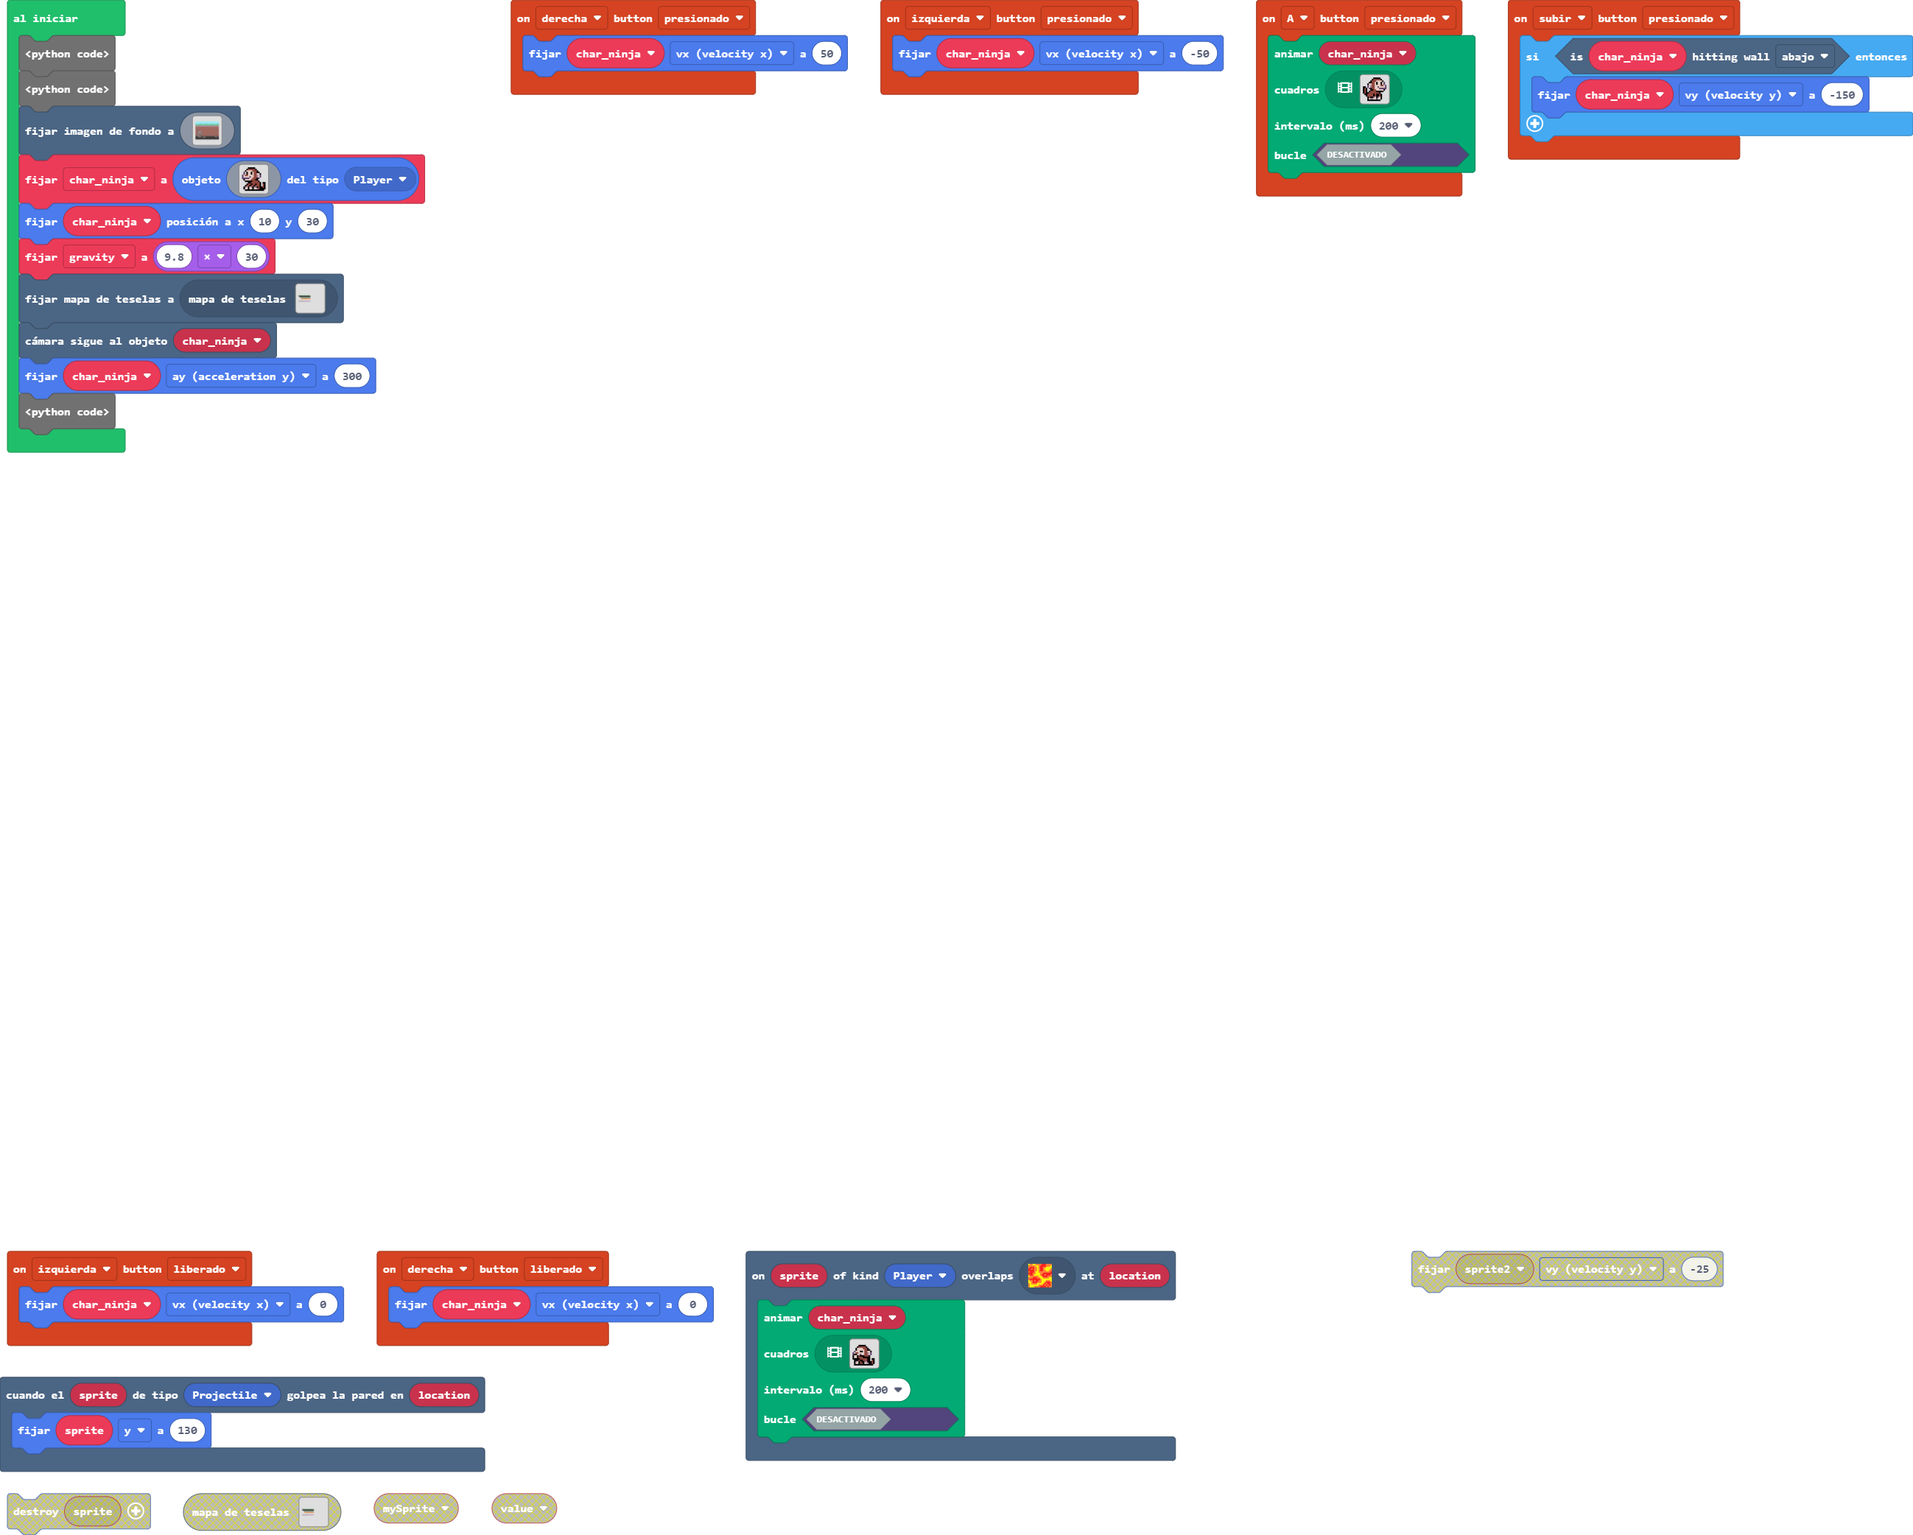
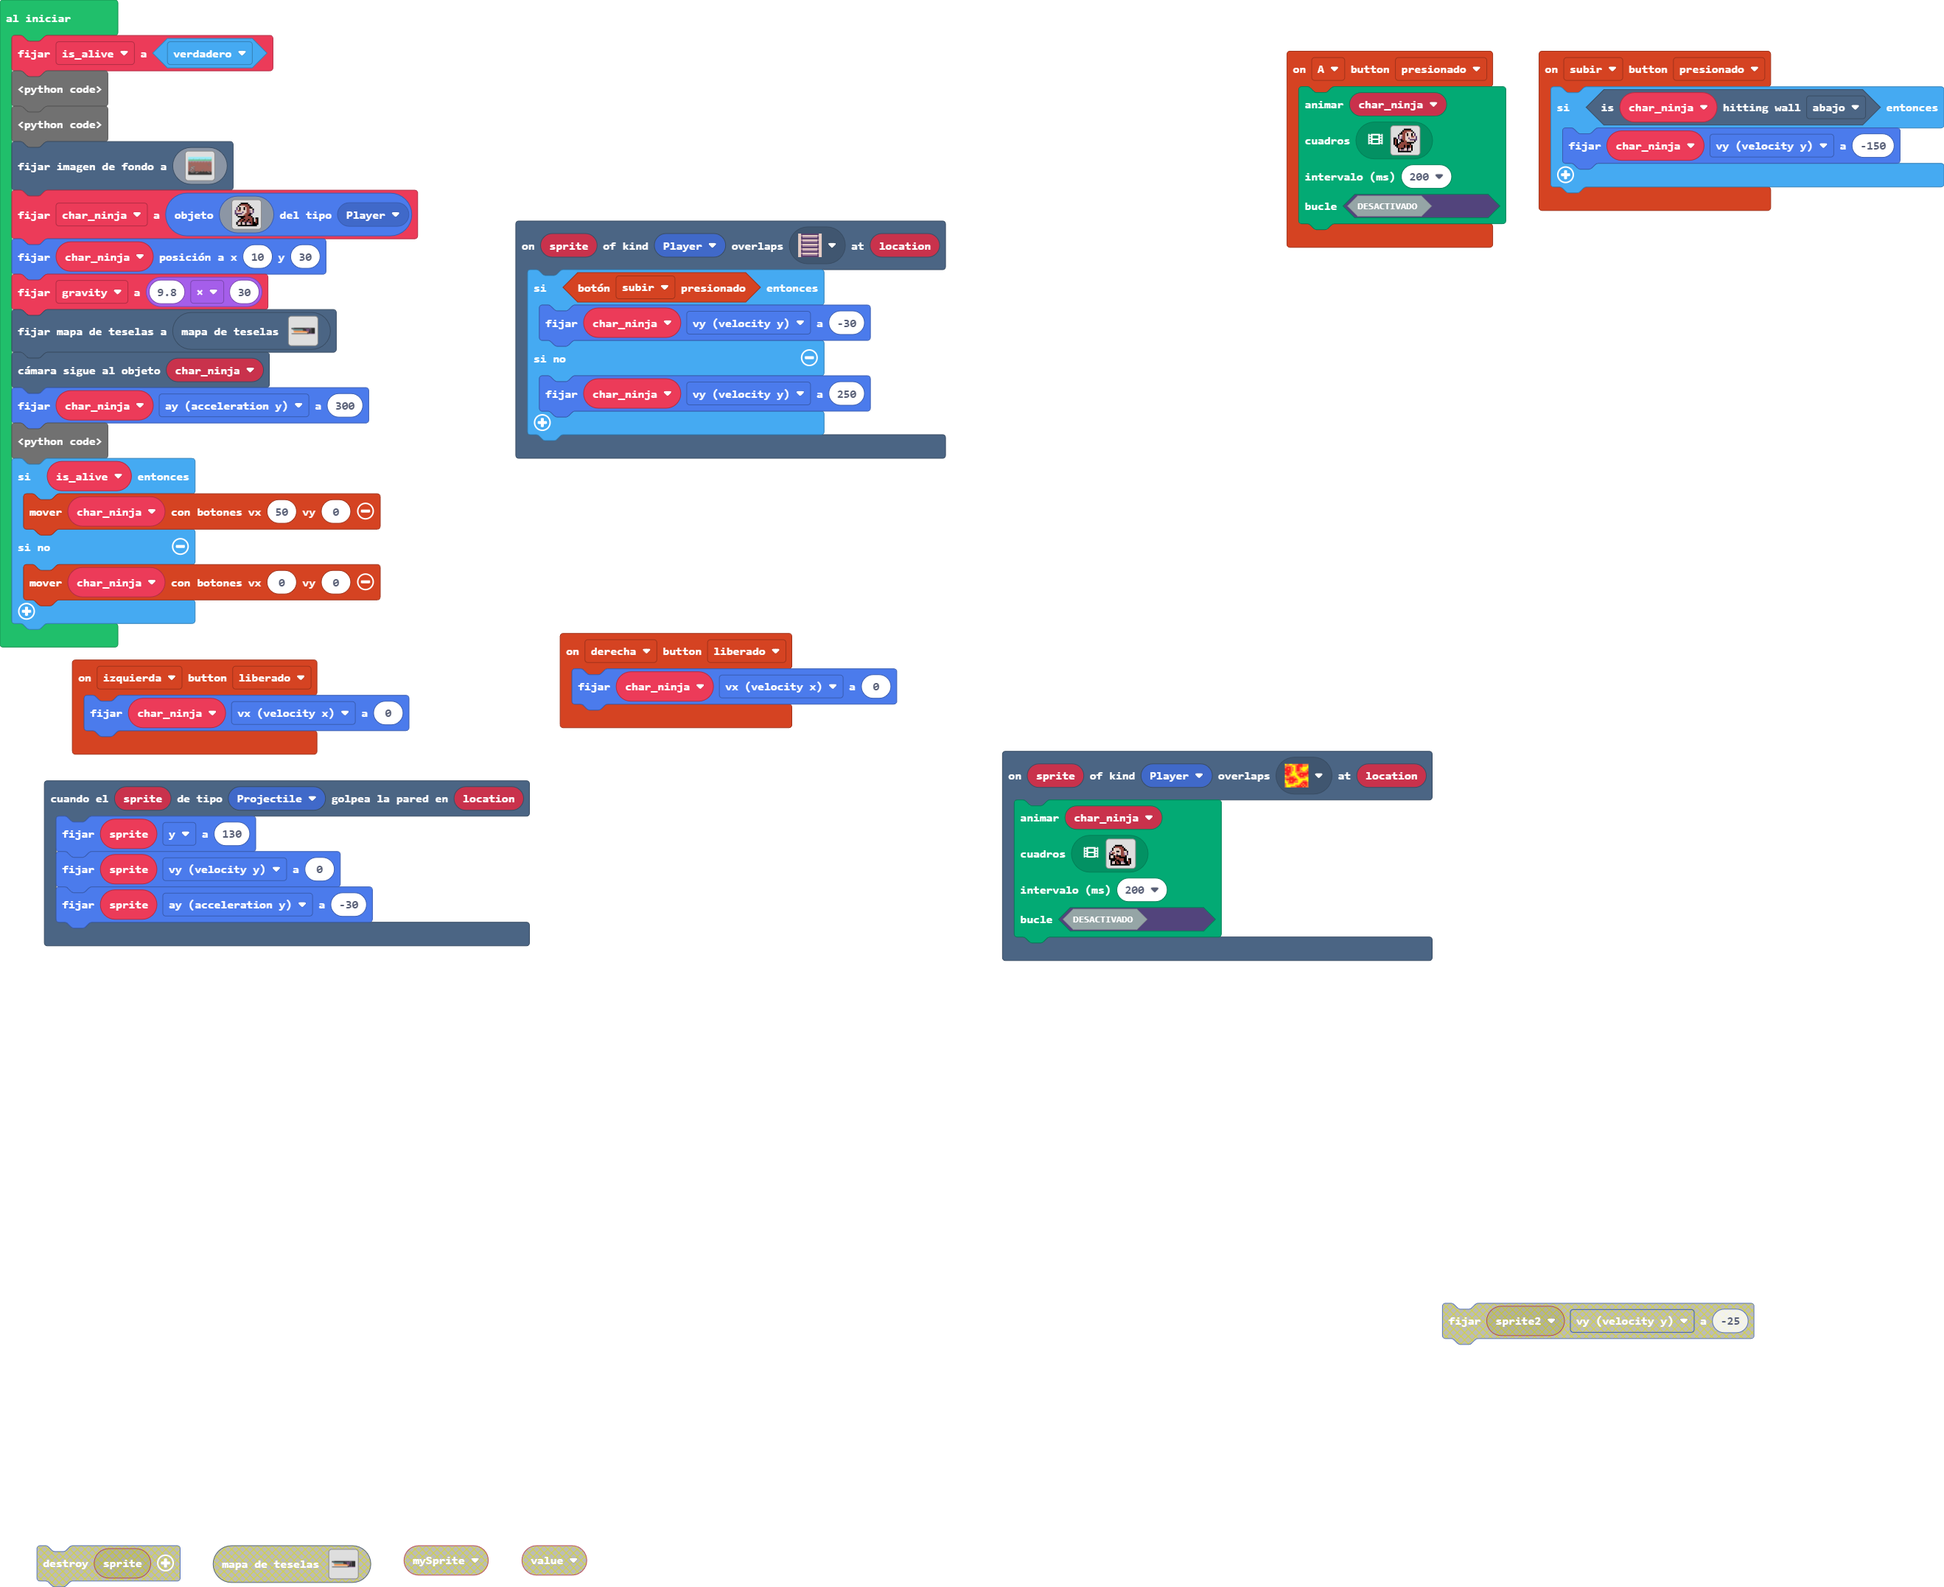
ladder

diff --git a/tilemap.g.ts b/tilemap.g.ts
@@ -8,6 +8,10 @@ namespace myTiles {
     export const tile3 = image.ofBuffer(hex``);
     //% fixedInstance jres blockIdentity=images._tile
     export const tile1 = image.ofBuffer(hex``);
+    //% fixedInstance jres blockIdentity=images._tile
+    export const tile4 = image.ofBuffer(hex``);
+    //% fixedInstance jres blockIdentity=images._tile
+    export const tile5 = image.ofBuffer(hex``);
 
     helpers._registerFactory("tilemap", function(name: string) {
         switch(helpers.stringTrim(name)) {
@@ -87,25 +91,120 @@ namespace myTiles {
 . . . . . . . . . . . . . . . . 
 . . . . . . . . . . . . . . . . 
 `, [myTiles.transparency16], TileScale.Sixteen);
+            case "nivel6":
+            case "nivel6":return tiles.createTilemap(hex`1000100000000000000000000000000000000000000000000000000000000000000000000000000000000000000000000000000000000000000000000000000000000000000000000000000000000000000000000000000000000000000000000000000000000000000000000000000000000000000000000000000000000000000000000000000000000000000000000000000000000000000000000000000000000000000000000000000000000000000000000000000000000000000000000000000000000000000000000000000000000000000000000000000000000000000000000000000000000000000000000000000000000000000000000000000000000000`, img`
+. . . . . . . . . . . . . . . . 
+. . . . . . . . . . . . . . . . 
+. . . . . . . . . . . . . . . . 
+. . . . . . . . . . . . . . . . 
+. . . . . . . . . . . . . . . . 
+. . . . . . . . . . . . . . . . 
+. . . . . . . . . . . . . . . . 
+. . . . . . . . . . . . . . . . 
+. . . . . . . . . . . . . . . . 
+. . . . . . . . . . . . . . . . 
+. . . . . . . . . . . . . . . . 
+. . . . . . . . . . . . . . . . 
+. . . . . . . . . . . . . . . . 
+. . . . . . . . . . . . . . . . 
+. . . . . . . . . . . . . . . . 
+. . . . . . . . . . . . . . . . 
+`, [myTiles.transparency16], TileScale.Sixteen);
+            case "nivel7":
+            case "nivel7":return tiles.createTilemap(hex`1000100000000000000000000000000000000000000000000000000000000000000000000000000000000000000000000000000000000000000000000000000000000000000000000000000000000000000000000000000000000000000000000000000000000000000000000000000000000000000000000000000000000000000000000000000000000000000000000000000000000000000000000000000000000000000000000000000000000000000000000000000000000000000000000000000000000000000000000000000000000000000000000000000000000000000000000000000000000000000000000000000000000000000000000000000000000000`, img`
+. . . . . . . . . . . . . . . . 
+. . . . . . . . . . . . . . . . 
+. . . . . . . . . . . . . . . . 
+. . . . . . . . . . . . . . . . 
+. . . . . . . . . . . . . . . . 
+. . . . . . . . . . . . . . . . 
+. . . . . . . . . . . . . . . . 
+. . . . . . . . . . . . . . . . 
+. . . . . . . . . . . . . . . . 
+. . . . . . . . . . . . . . . . 
+. . . . . . . . . . . . . . . . 
+. . . . . . . . . . . . . . . . 
+. . . . . . . . . . . . . . . . 
+. . . . . . . . . . . . . . . . 
+. . . . . . . . . . . . . . . . 
+. . . . . . . . . . . . . . . . 
+`, [myTiles.transparency16], TileScale.Sixteen);
+            case "nivel8":
+            case "nivel8":return tiles.createTilemap(hex`1000100000000000000000000000000000000000000000000000000000000000000000000000000000000000000000000000000000000000000000000000000000000000000000000000000000000000000000000000000000000000000000000000000000000000000000000000000000000000000000000000000000000000000000000000000000000000000000000000000000000000000000000000000000000000000000000000000000000000000000000000000000000000000000000000000000000000000000000000000000000000000000000000000000000000000000000000000000000000000000000000000000000000000000000000000000000000`, img`
+. . . . . . . . . . . . . . . . 
+. . . . . . . . . . . . . . . . 
+. . . . . . . . . . . . . . . . 
+. . . . . . . . . . . . . . . . 
+. . . . . . . . . . . . . . . . 
+. . . . . . . . . . . . . . . . 
+. . . . . . . . . . . . . . . . 
+. . . . . . . . . . . . . . . . 
+. . . . . . . . . . . . . . . . 
+. . . . . . . . . . . . . . . . 
+. . . . . . . . . . . . . . . . 
+. . . . . . . . . . . . . . . . 
+. . . . . . . . . . . . . . . . 
+. . . . . . . . . . . . . . . . 
+. . . . . . . . . . . . . . . . 
+. . . . . . . . . . . . . . . . 
+`, [myTiles.transparency16], TileScale.Sixteen);
+            case "nivel9":
+            case "nivel9":return tiles.createTilemap(hex`1000100000000000000000000000000000000000000000000000000000000000000000000000000000000000000000000000000000000000000000000000000000000000000000000000000000000000000000000000000000000000000000000000000000000000000000000000000000000000000000000000000000000000000000000000000000000000000000000000000000000000000000000000000000000000000000000000000000000000000000000000000000000000000000000000000000000000000000000000000000000000000000000000000000000000000000000000000000000000000000000000000000000000000000000000000000000000`, img`
+. . . . . . . . . . . . . . . . 
+. . . . . . . . . . . . . . . . 
+. . . . . . . . . . . . . . . . 
+. . . . . . . . . . . . . . . . 
+. . . . . . . . . . . . . . . . 
+. . . . . . . . . . . . . . . . 
+. . . . . . . . . . . . . . . . 
+. . . . . . . . . . . . . . . . 
+. . . . . . . . . . . . . . . . 
+. . . . . . . . . . . . . . . . 
+. . . . . . . . . . . . . . . . 
+. . . . . . . . . . . . . . . . 
+. . . . . . . . . . . . . . . . 
+. . . . . . . . . . . . . . . . 
+. . . . . . . . . . . . . . . . 
+. . . . . . . . . . . . . . . . 
+`, [myTiles.transparency16], TileScale.Sixteen);
+            case "nivel10":
+            case "nivel10":return tiles.createTilemap(hex`1000100000000000000000000000000000000000000000000000000000000000000000000000000000000000000000000000000000000000000000000000000000000000000000000000000000000000000000000000000000000000000000000000000000000000000000000000000000000000000000000000000000000000000000000000000000000000000000000000000000000000000000000000000000000000000000000000000000000000000000000000000000000000000000000000000000000000000000000000000000000000000000000000000000000000000000000000000000000000000000000000000000000000000000000000000000000000`, img`
+. . . . . . . . . . . . . . . . 
+. . . . . . . . . . . . . . . . 
+. . . . . . . . . . . . . . . . 
+. . . . . . . . . . . . . . . . 
+. . . . . . . . . . . . . . . . 
+. . . . . . . . . . . . . . . . 
+. . . . . . . . . . . . . . . . 
+. . . . . . . . . . . . . . . . 
+. . . . . . . . . . . . . . . . 
+. . . . . . . . . . . . . . . . 
+. . . . . . . . . . . . . . . . 
+. . . . . . . . . . . . . . . . 
+. . . . . . . . . . . . . . . . 
+. . . . . . . . . . . . . . . . 
+. . . . . . . . . . . . . . . . 
+. . . . . . . . . . . . . . . . 
+`, [myTiles.transparency16], TileScale.Sixteen);
             case "nivel1":
[1 lines of base64/hex data omitted]
-2...............................................................
-................................................................
-................................................................
-2222............................................................
-2...2...........................................................
-2....2..........................................................
-2.....2.........................................................
-2......2222..22..2..2..22..22222................................
-2...............................................................
-2...............................................................
-2...............................................................
-2...............................................................
-2...............................................................
-2...............................................................
-2........2.....2................................................
-22222222222222222222222222222222222222222.......................
-`, [myTiles.transparency16,sprites.builtin.oceanDepths7,sprites.dungeon.purpleOuterSouth2,sprites.dungeon.floorLight2,sprites.dungeon.floorLight5,sprites.dungeon.greenOuterSouthEast,sprites.dungeon.greenOuterNorth2,sprites.dungeon.greenOuterSouth2,sprites.dungeon.greenOuterSouth0,sprites.builtin.forestTiles10,sprites.builtin.forestTiles6,sprites.builtin.forestTiles2,sprites.builtin.forestTiles13,sprites.builtin.forestTiles14,sprites.dungeon.floorDark2,myTiles.tile2,myTiles.tile3,sprites.dungeon.floorDark5,myTiles.tile1], TileScale.Sixteen);
[1 lines of base64/hex data omitted]
+2.....2..........................................2.........2....
+......2..........................................2.........2....
+......22.............................22222.22.22.2222......2....
+2222..............................2......2.22.22.2.........2....
+2...2....................................2.22.22.2.........2....
+2....2...............................2...2.22.22.2.........2....
+2.....2...........................2......2.22.22.2.........2....
+2......2222..22..2..2..22..22222.........2.22.22.2.........2....
+2...............................22222222.2.22.22.2.........2....
+2.........................................2..2.2...........2....
+2..............................................2...........2....
+2..............................................2...........2....
+2..............................................2...........2....
+2..............................................2...........2....
+2..............................................2...........2....
+2222222222222222222222222222222222222222222222222222222222222222
+`, [myTiles.transparency16,sprites.dungeon.floorLight2,sprites.dungeon.floorLight5,sprites.dungeon.greenOuterSouthEast,sprites.dungeon.greenOuterNorth2,sprites.dungeon.greenOuterSouth0,sprites.builtin.forestTiles10,sprites.dungeon.floorDark2,myTiles.tile2,myTiles.tile3,sprites.dungeon.floorDark5,myTiles.tile1,sprites.dungeon.greenOuterEast1,sprites.dungeon.greenOuterSouthWest,sprites.dungeon.greenOuterWest1,sprites.dungeon.greenOuterSouth1,sprites.dungeon.greenInnerNorthEast,sprites.dungeon.greenOuterNorthEast,sprites.dungeon.greenOuterNorth0,sprites.dungeon.greenOuterNorth1,sprites.dungeon.greenOuterNorthWest,sprites.dungeon.greenOuterEast0,sprites.dungeon.greenInnerSouthWest,sprites.dungeon.purpleOuterNorth0,sprites.dungeon.purpleOuterNorth2,sprites.dungeon.purpleOuterNorthEast,sprites.dungeon.purpleOuterEast0,sprites.dungeon.purpleOuterWest1,sprites.dungeon.purpleOuterNorthWest,sprites.dungeon.purpleOuterWest0,sprites.dungeon.purpleInnerSouthWest,sprites.dungeon.purpleOuterNorth1,myTiles.tile4,myTiles.tile5], TileScale.Sixteen);
         }
         return null;
     })
@@ -119,6 +218,10 @@ namespace myTiles {
             case "tile3":return tile3;
             case "spawn":
             case "tile1":return tile1;
+            case "ladder":
+            case "tile4":return tile4;
+            case "chest_closed":
+            case "tile5":return tile5;
         }
         return null;
     })

diff --git a/main.ts b/main.ts
@@ -4,12 +4,6 @@ controller.right.onEvent(ControllerButtonEvent.Released, function () {
 controller.left.onEvent(ControllerButtonEvent.Released, function () {
     char_ninja.vx = 0
 })
-controller.right.onEvent(ControllerButtonEvent.Pressed, function () {
-    char_ninja.vx = 50
-})
-controller.left.onEvent(ControllerButtonEvent.Pressed, function () {
-    char_ninja.vx = -50
-})
 controller.A.onEvent(ControllerButtonEvent.Pressed, function () {
     animation.runImageAnimation(
     char_ninja,
@@ -128,6 +122,13 @@ scene.onOverlapTile(SpriteKind.Player, assets.tile`lava1`, function (sprite, loc
     false
     )
 })
+scene.onOverlapTile(SpriteKind.Player, assets.tile`ladder`, function (sprite, location) {
+    if (controller.up.isPressed()) {
+        char_ninja.vy = -30
+    } else {
+        char_ninja.vy = 250
+    }
+})
 controller.up.onEvent(ControllerButtonEvent.Pressed, function () {
     if (char_ninja.isHittingTile(CollisionDirection.Bottom)) {
         char_ninja.vy = -150
@@ -135,8 +136,11 @@ controller.up.onEvent(ControllerButtonEvent.Pressed, function () {
 })
 scene.onHitWall(SpriteKind.Projectile, function (sprite, location) {
     sprite.y = 130
+    sprite.vy = 0
+    sprite.ay = -30
 })
 let char_ninja: Sprite = null
+let is_alive = true
 function create_lava(seed: any) {
     for (let lava of tiles.getTilesByType(assets.tile`lava_enemy`)) {
         throw_lava(lava)
@@ -311,3 +315,8 @@ tiles.setCurrentTilemap(tilemap`nivel1`)
 scene.cameraFollowSprite(char_ninja)
 char_ninja.ay = 300
 create_lava(-20)
+if (is_alive) {
+    controller.moveSprite(char_ninja, 50, 0)
+} else {
+    controller.moveSprite(char_ninja, 0, 0)
+}

diff --git a/main.py b/main.py
@@ -143,36 +143,42 @@ def on_up_pressed():
         char_ninja.vy = -150
 controller.up.on_event(ControllerButtonEvent.PRESSED, on_up_pressed)
 
+def on_hit_wall(sprite2, location2):
+    sprite2.vy += 0
+    sprite2.y = 130
+    sprite2.vy += -30
+    char_ninja.vy += -30
+scene.on_hit_wall(SpriteKind.projectile, on_hit_wall)
+
 char_ninja: Sprite = None
-
-def create_lava(seed: Int):
-    for lava in tiles.get_tiles_by_type(assets.tile("""lava_enemy""")):
+def create_lava(seed: any):
+    for lava in tiles.get_tiles_by_type(assets.tile("""
+        lava_enemy
+    """)):
         throw_lava(lava)
-
-def throw_lava(lava: any):
+def throw_lava(lava2: tiles.Location):
     pause(randint(500, 1500))
     lava_projectile = sprites.create(img("""
             . . . . . . . . . . . . . . . .
-                                . . . . . . . . . . . . . . . .
-                                . . . . . 4 4 4 4 4 . . . . . .
-                                . . . 4 4 4 5 5 5 d 4 4 4 4 . .
-                                . . 4 d 5 d 5 5 5 d d d 4 4 . .
-                                . . 4 5 5 1 1 1 d d 5 5 5 4 . .
-                                . 4 5 5 5 1 1 1 5 1 1 5 5 4 4 .
-                                . 4 d d 1 1 5 5 5 1 1 5 5 d 4 .
-                                . 4 5 5 1 1 5 1 1 5 5 d d d 4 .
-                                . 2 5 5 5 d 1 1 1 5 1 1 5 5 2 .
-                                . 2 d 5 5 d 1 1 1 5 1 1 5 5 2 .
-                                . . 2 4 d d 5 5 5 5 d d 5 4 . .
-                                . . . 2 2 4 d 5 5 d d 4 4 . . .
-                                . . 2 2 2 2 2 4 4 4 2 2 2 . . .
-                                . . . 2 2 4 4 4 4 4 4 2 2 . . .
-                                . . . . . 2 2 2 2 2 2 . . . . .
-        """),SpriteKind.projectile)
-    tiles.place_on_tile(lava_projectile, lava)
+                                            . . . . . . . . . . . . . . . .
+                                            . . . . . 4 4 4 4 4 . . . . . .
+                                            . . . 4 4 4 5 5 5 d 4 4 4 4 . .
+                                            . . 4 d 5 d 5 5 5 d d d 4 4 . .
+                                            . . 4 5 5 1 1 1 d d 5 5 5 4 . .
+                                            . 4 5 5 5 1 1 1 5 1 1 5 5 4 4 .
+                                            . 4 d d 1 1 5 5 5 1 1 5 5 d 4 .
+                                            . 4 5 5 1 1 5 1 1 5 5 d d d 4 .
+                                            . 2 5 5 5 d 1 1 1 5 1 1 5 5 2 .
+                                            . 2 d 5 5 d 1 1 1 5 1 1 5 5 2 .
+                                            . . 2 4 d d 5 5 5 5 d d 5 4 . .
+                                            . . . 2 2 4 d 5 5 d d 4 4 . . .
+                                            . . 2 2 2 2 2 4 4 4 2 2 2 . . .
+                                            . . . 2 2 4 4 4 4 4 4 2 2 . . .
+                                            . . . . . 2 2 2 2 2 2 . . . . .
+        """),
+        SpriteKind.projectile)
+    tiles.place_on_tile(lava_projectile, lava2)
     lava_projectile.vy = -20
-
-
 scene.set_background_image(img("""
     9999999999999999999999999999999999999999999999999999999999999999999999999999999999999999999999999999999999999999999999999999999999999999999999999999999999999999
         9999999999999999999999999999999999999999999999999999999999999999999999999999999999999999999999999999999999999999999999999999999999999999999999999999999999999999
